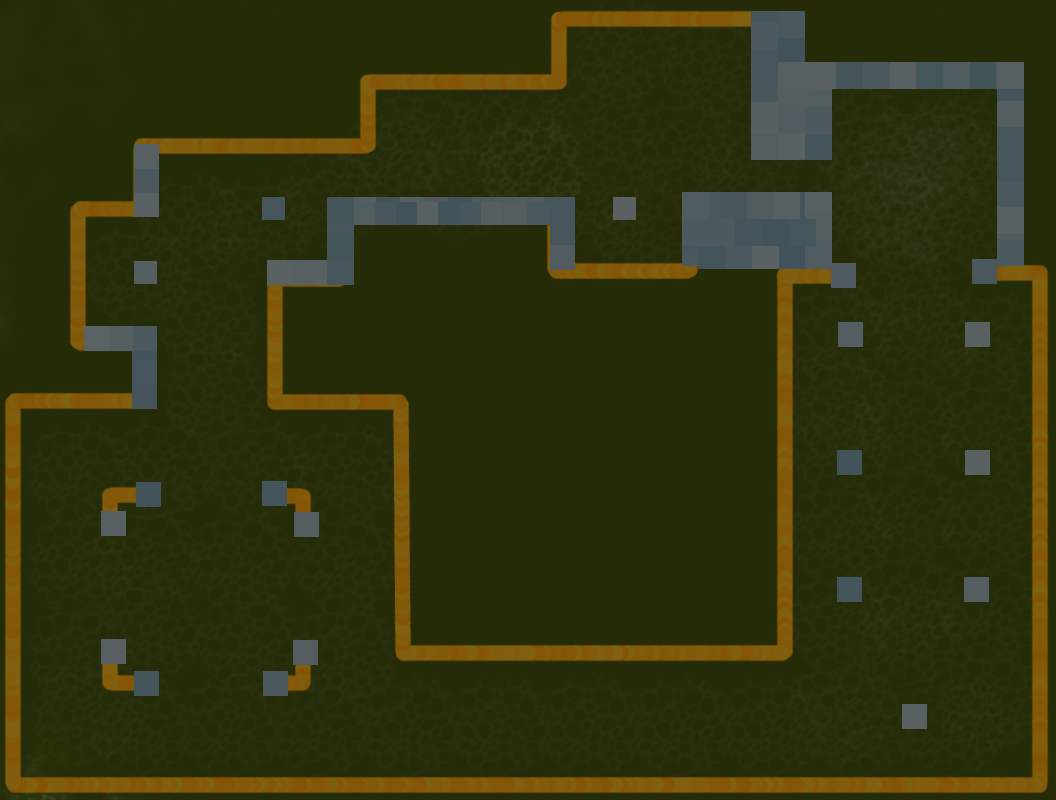
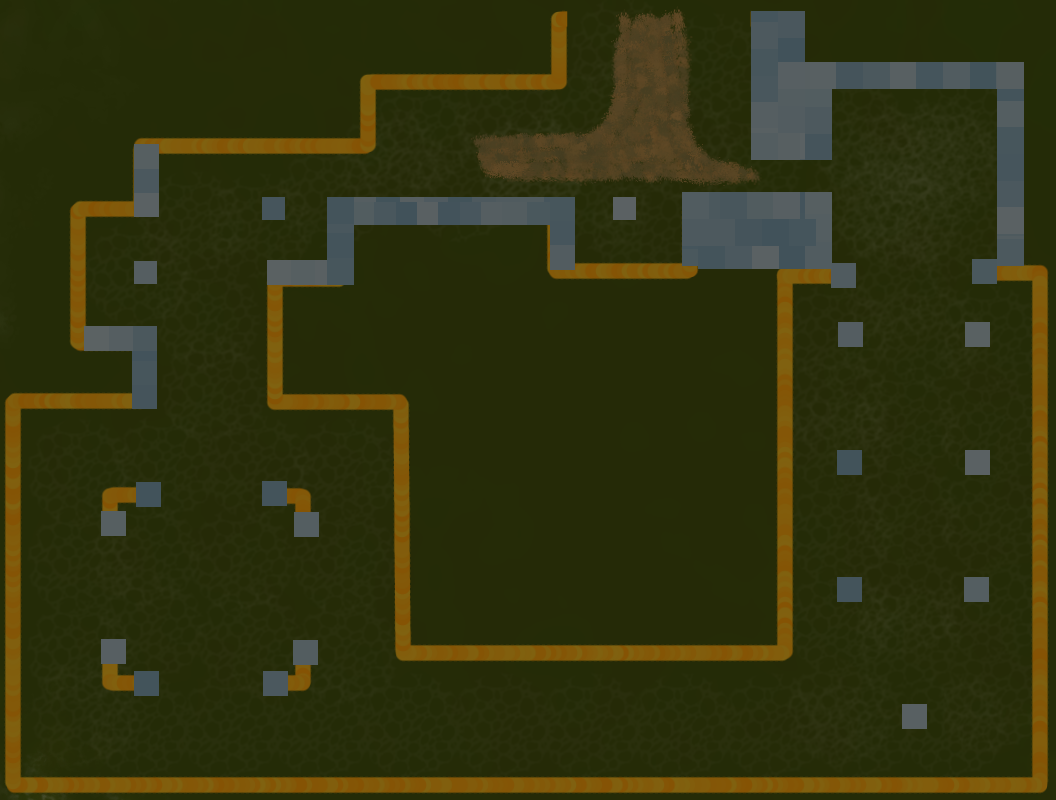
Added more floor art

Changed region(s): [[0.4375, 0.0, 0.7188, 0.25]]

diff --git a/source/scripts/models/Floor.js b/source/scripts/models/Floor.js
@@ -2,8 +2,9 @@ import Pixi from "pixi.js"
 import config from "config.js"
 
 var FLOOR_TEXTURES = [
-    Pixi.Texture.fromImage(require("images/firstSixFloors.png"))
-    // Pixi.Texture.fromImage(require("images/hero.png")),
+    Pixi.Texture.fromImage(require("images/FirstSixFloors.png")),
+    Pixi.Texture.fromImage(require("images/SecondFloorSet.png")),
+    Pixi.Texture.fromImage(require("images/ThirdFloorSet.png"))
     // Pixi.Texture.fromImage(require("images/hero.png")),
     // Pixi.Texture.fromImage(require("images/hero.png")),
     // Pixi.Texture.fromImage(require("images/hero.png")),

diff --git a/source/scripts/models/GameContainer.js b/source/scripts/models/GameContainer.js
@@ -118,8 +118,8 @@ export default class GameContainer extends Pixi.Container {
             if(Keyb.isDown("T")) {
                 this.scale.x = 0.25
                 this.scale.y = 0.25
-                this.position.x = -2 * 32
-                this.position.y = 5 * 32
+                this.position.x = -1.25 * 32
+                this.position.y = 4 * 32
             } else {
                 this.scale.x = 1
                 this.scale.y = 1
